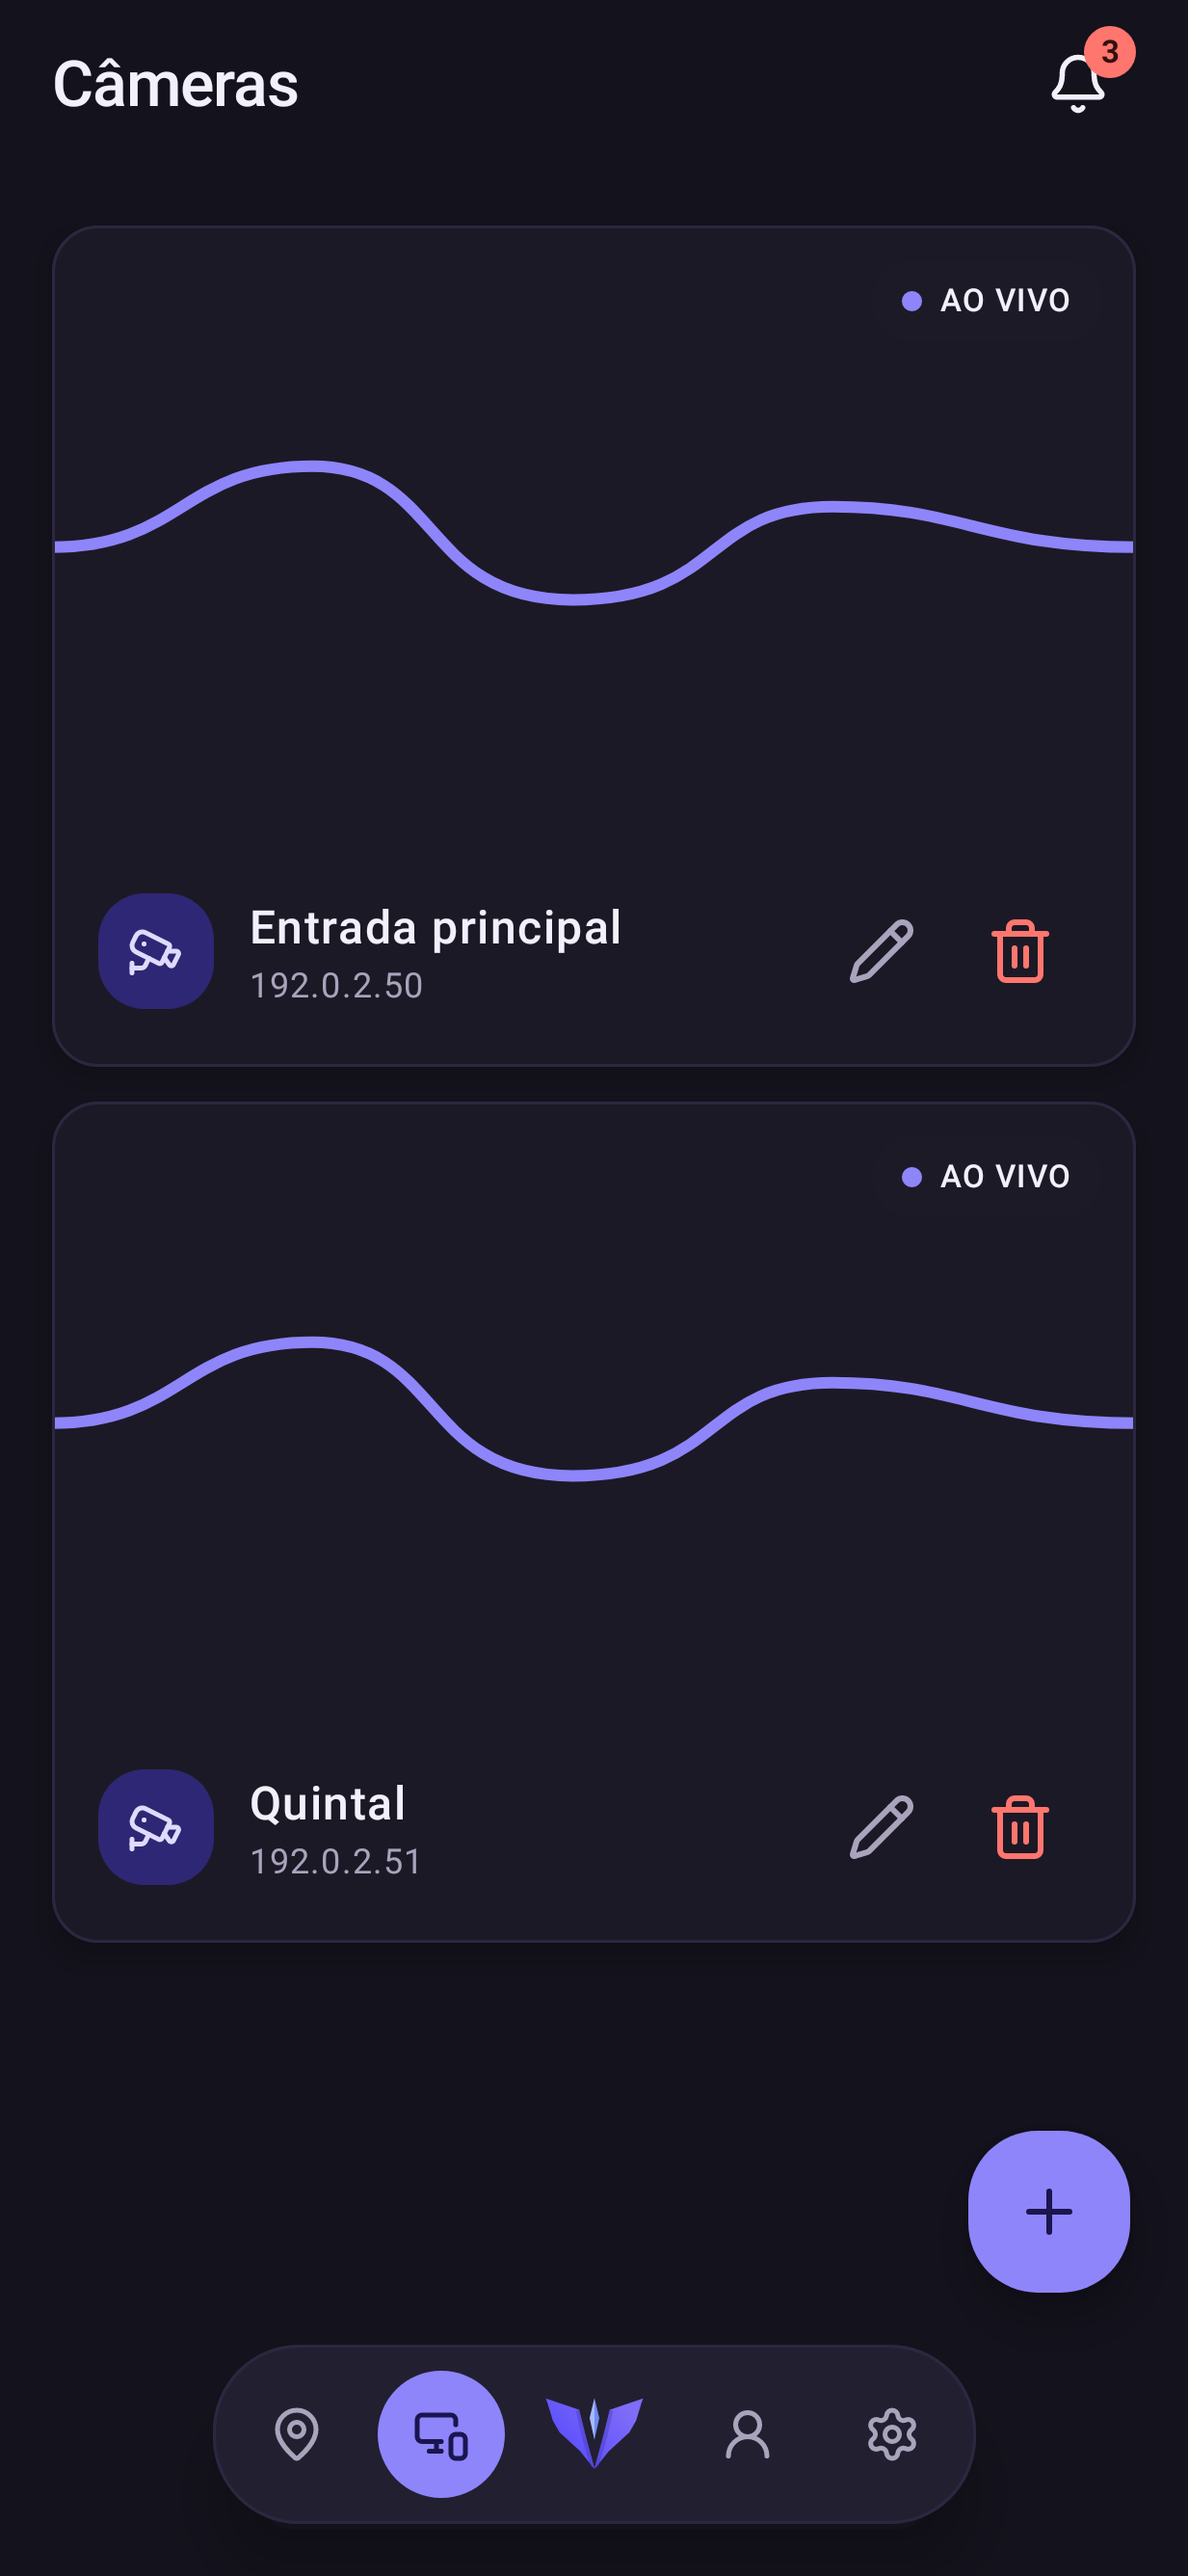
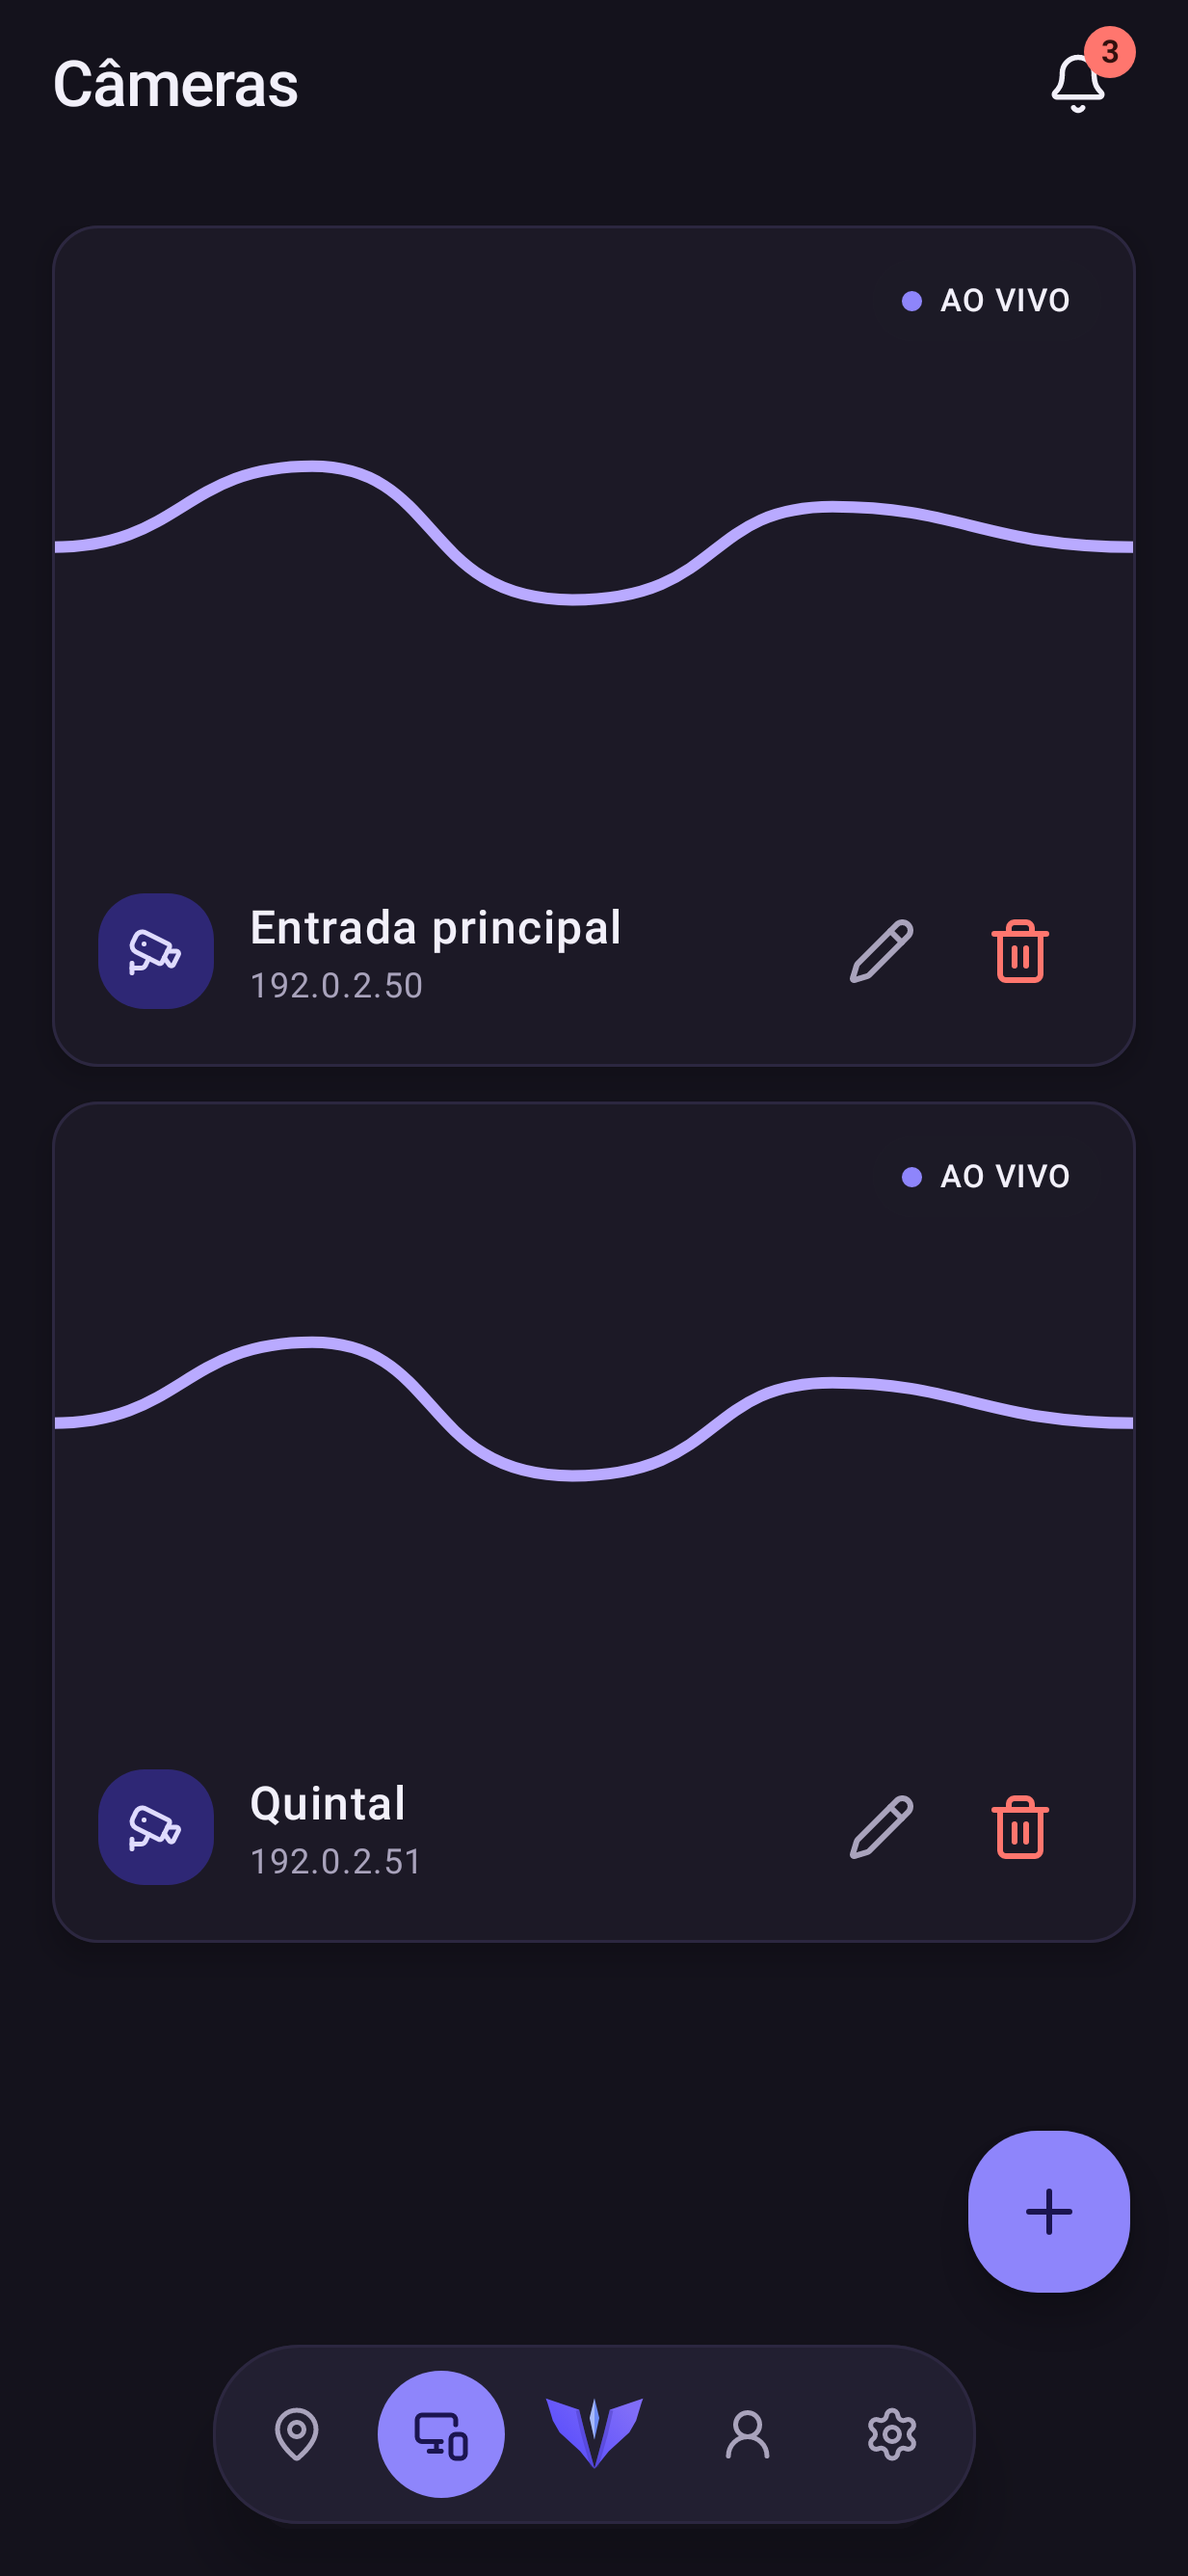
fix(app): ícones dos tiles escuros legíveis no tema claro
Os tiles da marca (favoritos, ajustes e área de vídeo) são escuros nos dois
temas, mas o ícone dentro deles usava o secondary do tema — que no tema claro é
um roxo escuro. O contraste caía para 3,2:1 e o ícone praticamente sumia.

Agora esses ícones usam um token próprio (ColorTokens.OnBrandTile, claro nos dois
temas), com 8,4:1 sobre o tile. Ajustei os três cartões de Ajustes, os favoritos
da visão geral (inclusive o estado desligado da lâmpada) e o traço de sinal da
câmera sem vídeo. O ícone de pessoa do avatar saiu do primary puro (3:1) para
onPrimaryContainer.

Capturas da landing regeradas com os ícones corrigidos.

diff --git a/mobile/app/src/main/java/com/ferforastieri/valky/feature/settings/SettingsScreen.kt b/mobile/app/src/main/java/com/ferforastieri/valky/feature/settings/SettingsScreen.kt
@@ -418,7 +418,7 @@ private fun PermissionOption(
     ) {
         Row(Modifier.padding(14.dp), verticalAlignment = Alignment.CenterVertically) {
             Surface(shape = MaterialTheme.shapes.small, color = ColorTokens.BrandTile) {
-                Icon(icon, null, Modifier.padding(9.dp).size(21.dp), tint = MaterialTheme.colorScheme.secondary)
+                Icon(icon, null, Modifier.padding(9.dp).size(21.dp), tint = ColorTokens.OnBrandTile)
             }
             Spacer(Modifier.width(12.dp))
             Column(Modifier.weight(1f)) {
@@ -500,7 +500,7 @@ private fun ThemeOption(value: String, label: String, icon: androidx.compose.ui.
     ) {
         Row(Modifier.padding(horizontal = 14.dp, vertical = 10.dp), verticalAlignment = Alignment.CenterVertically) {
             Surface(shape = MaterialTheme.shapes.small, color = ColorTokens.BrandTile) {
-                Icon(icon, null, Modifier.padding(8.dp).size(20.dp), tint = MaterialTheme.colorScheme.secondary)
+                Icon(icon, null, Modifier.padding(8.dp).size(20.dp), tint = ColorTokens.OnBrandTile)
             }
             Spacer(Modifier.width(10.dp))
             Text(label, Modifier.weight(1f), fontWeight = if (current == value) FontWeight.SemiBold else FontWeight.Normal)
@@ -548,7 +548,7 @@ private fun SettingsCard(icon: androidx.compose.ui.graphics.vector.ImageVector, 
     Card(onClick = onClick, modifier = Modifier.fillMaxWidth(), colors = CardDefaults.cardColors(containerColor = MaterialTheme.colorScheme.surface), elevation = CardDefaults.cardElevation(defaultElevation = 4.dp)) {
         Row(Modifier.padding(16.dp), verticalAlignment = Alignment.CenterVertically) {
             Surface(shape = MaterialTheme.shapes.small, color = ColorTokens.BrandTile, shadowElevation = 3.dp) {
-                Icon(icon, null, Modifier.padding(10.dp), tint = MaterialTheme.colorScheme.secondary)
+                Icon(icon, null, Modifier.padding(10.dp), tint = ColorTokens.OnBrandTile)
             }
             Spacer(Modifier.width(14.dp))
             Column(Modifier.weight(1f)) {

diff --git a/mobile/app/src/test/java/com/ferforastieri/valky/LightAuditScreenshotTest.kt b/mobile/app/src/test/java/com/ferforastieri/valky/LightAuditScreenshotTest.kt
@@ -1,0 +1,48 @@
+package com.ferforastieri.valky
+
+import androidx.compose.foundation.layout.Column
+import androidx.compose.foundation.layout.fillMaxSize
+import androidx.compose.material3.MaterialTheme
+import androidx.compose.material3.Surface
+import androidx.compose.material3.Text
+import androidx.compose.runtime.Composable
+import androidx.compose.ui.Modifier
+import androidx.compose.ui.test.junit4.createComposeRule
+import androidx.compose.ui.test.onRoot
+import com.ferforastieri.valky.core.design.ValkyTheme
+import com.github.takahirom.roborazzi.captureRoboImage
+import org.junit.Rule
+import org.junit.Test
+import org.junit.runner.RunWith
+import org.robolectric.RobolectricTestRunner
+import org.robolectric.annotation.Config
+import org.robolectric.annotation.GraphicsMode
+
+/**
+ * Auditoria temporária: renderiza telas e sheets que NÃO entram nas capturas da
+ * landing, no tema claro, para conferir contraste de ícones e fundos.
+ */
+@RunWith(RobolectricTestRunner::class)
+@GraphicsMode(GraphicsMode.Mode.NATIVE)
+@Config(sdk = [34], qualifiers = "pt-rBR-w411dp-h891dp-xxhdpi", application = android.app.Application::class)
+class LightAuditScreenshotTest {
+    init { java.util.Locale.setDefault(java.util.Locale("pt", "BR")) }
+
+    @get:Rule val compose = createComposeRule()
+
+    private fun tela(nome: String, conteudo: @Composable () -> Unit) {
+        compose.setContent {
+            ValkyTheme(mode = "light") {
+                Surface(Modifier.fillMaxSize(), color = MaterialTheme.colorScheme.background) {
+                    Column(Modifier.fillMaxSize()) { conteudo() }
+                }
+            }
+        }
+        compose.onRoot().captureRoboImage("build/screenshots/audit-$nome.png")
+    }
+
+    @Test
+    fun onboarding() {
+        tela("onboarding") { Text("auditoria: onboarding", Modifier.fillMaxSize()) }
+    }
+}

diff --git a/mobile/app/src/main/java/com/ferforastieri/valky/feature/overview/OverviewScreen.kt b/mobile/app/src/main/java/com/ferforastieri/valky/feature/overview/OverviewScreen.kt
@@ -403,14 +403,14 @@ internal fun FavoriteCard(item: FavoriteItem, modifier: Modifier, onClick: () ->
                     com.ferforastieri.valky.core.design.AnimatedBulbIcon(
                         on = lit,
                         color = com.ferforastieri.valky.core.design.lightTint(item.mode, item.hue, item.saturation, item.value, item.kelvin),
-                        offTint = MaterialTheme.colorScheme.onSurfaceVariant,
+                        offTint = com.ferforastieri.valky.core.design.ColorTokens.OnBrandTile,
                         modifier = Modifier.padding(7.dp),
                         contentDescription = stringResource(R.string.light_toggle),
                     )
                 }
             } else {
                 Surface(Modifier.size(36.dp), RoundedCornerShape(11.dp), color = com.ferforastieri.valky.core.design.ColorTokens.BrandTile) {
-                    Icon(favoriteIcon(item.type), null, Modifier.padding(9.dp), tint = MaterialTheme.colorScheme.secondary)
+                    Icon(favoriteIcon(item.type), null, Modifier.padding(9.dp), tint = com.ferforastieri.valky.core.design.ColorTokens.OnBrandTile)
                 }
             }
             Spacer(Modifier.width(11.dp))

diff --git a/mobile/app/src/main/java/com/ferforastieri/valky/core/design/ValkyrisTheme.kt b/mobile/app/src/main/java/com/ferforastieri/valky/core/design/ValkyrisTheme.kt
@@ -18,7 +18,13 @@ import androidx.compose.ui.unit.dp
 // levemente arroxeados para o texto e os fundos continuarem legíveis.
 val CanvasLight=Color(0xFFF5F3FC);val SurfaceLight=Color(0xFFFBFAFF);val InkLight=Color(0xFF1A1726);val MutedLight=Color(0xFF6B6580);val SignalLight=Color(0xFF594DFC);val AlarmLight=Color(0xFFDC4A44)
 val CanvasDark=Color(0xFF14121C);val SurfaceDark=Color(0xFF1C1926);val InkDark=Color(0xFFF2F0FA);val MutedDark=Color(0xFFA9A3BC);val SignalDark=Color(0xFF9B8CFA);val AlarmDark=Color(0xFFFF766E)
-object ColorTokens { val BrandTile=Color(0xFF1C1926) }
+object ColorTokens {
+    val BrandTile=Color(0xFF1C1926)
+    // O tile da marca é escuro nos dois temas: o ícone dentro dele precisa ser
+    // claro sempre. Usar o secondary do tema deixava o ícone quase invisível no
+    // tema claro (contraste 3,2:1 contra 8,4:1 deste tom).
+    val OnBrandTile=Color(0xFFB9AAFF)
+}
 private val light=lightColorScheme(
     primary=Color(0xFF806DF8),onPrimary=Color(0xFFFFFFFF),primaryContainer=Color(0xFFE7E2FE),onPrimaryContainer=Color(0xFF241E52),
     secondary=Color(0xFF594DFC),onSecondary=Color(0xFFFFFFFF),secondaryContainer=Color(0xFFDFDBFE),onSecondaryContainer=Color(0xFF1B1550),

diff --git a/mobile/app/src/main/java/com/ferforastieri/valky/feature/cameras/CamerasScreen.kt b/mobile/app/src/main/java/com/ferforastieri/valky/feature/cameras/CamerasScreen.kt
@@ -225,7 +225,7 @@ private fun CameraCard(camera: Camera, stream: CameraListStream?, onClick: () ->
         Column {
             Box(Modifier.fillMaxWidth().aspectRatio(16 / 9f).background(ColorTokens.BrandTile)) {
                 if (ready && stream != null) CameraListLivePlayer(camera, stream, Modifier.fillMaxSize())
-                else SignalLine(Modifier.fillMaxWidth().height(70.dp).align(Alignment.Center), if (failed) MaterialTheme.colorScheme.error else MaterialTheme.colorScheme.secondary)
+                else SignalLine(Modifier.fillMaxWidth().height(70.dp).align(Alignment.Center), if (failed) MaterialTheme.colorScheme.error else ColorTokens.OnBrandTile)
                 Surface(Modifier.padding(12.dp).align(Alignment.TopEnd), shape = CircleShape, color = MaterialTheme.colorScheme.surface.copy(alpha = .9f)) {
                     Row(Modifier.padding(horizontal = 10.dp, vertical = 6.dp), verticalAlignment = Alignment.CenterVertically) {
                         Box(Modifier.size(7.dp).background(if (failed) MaterialTheme.colorScheme.error else MaterialTheme.colorScheme.secondary, CircleShape))

diff --git a/mobile/app/src/main/java/com/ferforastieri/valky/core/design/ProfileAvatar.kt b/mobile/app/src/main/java/com/ferforastieri/valky/core/design/ProfileAvatar.kt
@@ -45,7 +45,9 @@ fun ProfileAvatar(avatarData: String, contentDescription: String?, modifier: Mod
                 androidx.compose.material3.Icon(
                     Lucide.UserRound,
                     contentDescription = contentDescription,
-                    tint = MaterialTheme.colorScheme.primary,
+                    // Par correto do primaryContainer: o primary puro ficava em
+                    // 3:1 no tema claro.
+                    tint = MaterialTheme.colorScheme.onPrimaryContainer,
                 )
             }
         }
